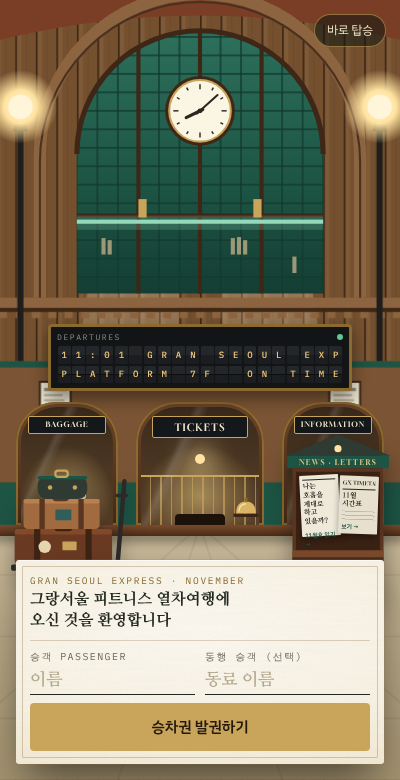
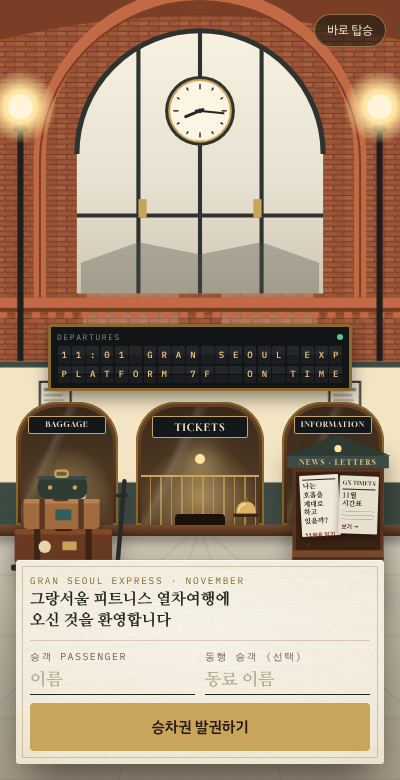
Restore brick palette, make booth wall ivory, keep only main window mullions
Claude-Session: https://claude.ai/code/session_01944gX2svfc1a8cfr9gyaLp

diff --git a/index.html b/index.html
@@ -11,9 +11,9 @@
 /* Layout: 휴대폰 한 화면 = 객차 한 칸. 위 황동 명판(칸 이동) → 창(칸마다 다른 풍경) → 기구 → 테이블 위 미션 카드 */
 :root{
   color-scheme:dark;
-  --night:#0D1A15;
+  --night:#0F1511;
   --brass:#C9A55C; --brass-dk:#8A6A2E;
-  --paper:#F4ECDB; --ink:#22281F; --muted:#6B6A5C; --leather:#1D5444;
+  --paper:#F4ECDB; --ink:#22281F; --muted:#6B6A5C; --leather:#6E2626;
   --frame:#2C3034; --frame-hi:#464B50; --shroud:#A2A6A9; --shroud-hi:#C3C6C8; --pad:#1E2124; --stack:#666B70;
   --glove:#FBFAF5; --navy:#1F2F52;
   --sky1:#E8D3A6; --sky2:#F3E5C3; --sun:#F6E2A8; --lamp:#F7D88A;
@@ -209,7 +209,7 @@ body{margin:0;background:var(--night);color:var(--paper);font-family:var(--f-bod
 .posts{position:absolute;left:0;right:0;bottom:26%;height:12%;pointer-events:none}
 .post{position:absolute;bottom:0;width:7px;height:100%;border-radius:3px;background:linear-gradient(90deg,var(--brass-dk),#E3C47F,var(--brass-dk))}
 .post::before{content:"";position:absolute;top:-6px;left:-3px;width:13px;height:13px;border-radius:50%;background:var(--brass)}
-.rope{position:absolute;top:8%;height:28px;border-bottom:5px solid #1D5444;border-radius:0 0 50% 50%}
+.rope{position:absolute;top:8%;height:28px;border-bottom:5px solid #6E2626;border-radius:0 0 50% 50%}
 
 .office-ui{position:absolute;left:0;right:0;bottom:0;padding:0 max(16px,env(safe-area-inset-right,0px)) max(16px,env(safe-area-inset-bottom,0px)) max(16px,env(safe-area-inset-left,0px));z-index:5}
 .welcome{position:absolute;top:13%;left:0;right:0;text-align:center;color:#3A2A1C;padding-inline:16px;z-index:4}
@@ -253,13 +253,13 @@ body{margin:0;background:var(--night);color:var(--paper);font-family:var(--f-bod
 @keyframes flash{50%{opacity:.25}}
 .train-side{position:absolute;left:4%;bottom:31%;height:20%;display:flex;align-items:flex-end;gap:6px;transition:transform 2.6s cubic-bezier(.55,0,.75,.4)}
 .departing .train-side{transform:translateX(-150%)}
-.tcar{position:relative;height:100%;width:220px;flex:none;border-radius:10px 10px 4px 4px;background:linear-gradient(#EFE3C8 0 34%,#C9A55C 34% 36%,#1D5444 36%);box-shadow:0 8px 16px rgba(0,0,0,.3)}
+.tcar{position:relative;height:100%;width:220px;flex:none;border-radius:10px 10px 4px 4px;background:linear-gradient(#EFE3C8 0 34%,#C9A55C 34% 36%,#23392C 36%);box-shadow:0 8px 16px rgba(0,0,0,.3)}
 .tcar .ws{position:absolute;left:8px;right:8px;top:10%;height:20%;display:flex;gap:6px}
 .tcar .ws i{flex:1;border-radius:4px;background:#F2C97A;box-shadow:inset 0 0 0 2px #8A6A2E}
 .tcar .nm{position:absolute;left:0;right:0;top:52%;text-align:center;font-family:var(--f-display);font-size:13px;letter-spacing:.14em;color:#E3C47F}
 .tcar .gl{position:absolute;left:0;right:0;bottom:22%;height:2px;background:var(--brass)}
-.loco2{width:150px;border-radius:50px 10px 4px 4px;background:linear-gradient(#1D5444,#143E33)}
-.loco2 .chim{position:absolute;left:26px;top:-22px;width:18px;height:24px;border-radius:3px 3px 0 0;background:#143E33}
+.loco2{width:150px;border-radius:50px 10px 4px 4px;background:linear-gradient(#23392C,#1A2B21)}
+.loco2 .chim{position:absolute;left:26px;top:-22px;width:18px;height:24px;border-radius:3px 3px 0 0;background:#1A2B21}
 .puff{position:absolute;left:22px;top:-30px;width:26px;height:26px;border-radius:50%;background:#F4EEE2;opacity:0}
 .departing .puff,.waiting .puff{animation:puff 1.6s ease-out infinite}
 .puff:nth-child(2){animation-delay:.5s!important}.puff:nth-child(3){animation-delay:1s!important}
@@ -274,7 +274,7 @@ body{margin:0;background:var(--night);color:var(--paper);font-family:var(--f-bod
 .plat-msg b{display:block;font-family:var(--f-kr);font-size:20px}
 .plat-msg span{font-size:13px;color:#5E5444}
 .skip{position:absolute;right:max(14px,env(safe-area-inset-right,0px));top:max(14px,env(safe-area-inset-top,0px));z-index:9;background:rgba(15,21,17,.55);border:1px solid rgba(201,165,92,.6);color:#F1E5CB;border-radius:999px;padding:6px 12px;font-size:12px}
-.fade{position:absolute;inset:0;background:#0D1A15;opacity:0;pointer-events:none;transition:opacity .5s;z-index:10}
+.fade{position:absolute;inset:0;background:#0F1511;opacity:0;pointer-events:none;transition:opacity .5s;z-index:10}
 .fade.on{opacity:1}
 
 
@@ -317,7 +317,7 @@ body{margin:0;background:var(--night);color:var(--paper);font-family:var(--f-bod
 .st-card .acts{display:flex;gap:8px;margin-top:4px}
 .st-card .acts .btn{flex:1}
 .st-card .btn.line{background:transparent;color:var(--ink);border:1px solid #CFC5B0}
-.received{position:absolute;right:12px;top:-58px;width:96px;height:96px;border-radius:50%;border:3px double #1D5444;color:#1D5444;display:grid;place-items:center;text-align:center;
+.received{position:absolute;right:12px;top:-58px;width:96px;height:96px;border-radius:50%;border:3px double #6E2626;color:#6E2626;display:grid;place-items:center;text-align:center;
   font-family:var(--f-mono);font-size:9.5px;letter-spacing:.1em;line-height:1.35;transform:rotate(-12deg);animation:stampIn .45s cubic-bezier(.3,1.7,.5,1);background:rgba(244,236,219,.85)}
 .received b{display:block;font-family:var(--f-kr);font-size:13px;letter-spacing:0}
 @keyframes stampIn{from{transform:rotate(-12deg) scale(2);opacity:0}}
@@ -355,7 +355,7 @@ body{margin:0;background:var(--night);color:var(--paper);font-family:var(--f-bod
 .paper .mast{font-family:var(--f-display);font-size:7px;letter-spacing:.06em;border-bottom:1.5px solid #2A2622;padding-bottom:1px;white-space:nowrap;overflow:hidden}
 .paper .hd{font-family:var(--f-kr);font-weight:800;font-size:8.5px;line-height:1.25}
 .paper .cols{flex:1;background:repeating-linear-gradient(0deg,#B7AF9E 0 1px,transparent 1px 4px);opacity:.8}
-.paper .ft{font-size:7.5px;font-weight:600;color:#1D5444}
+.paper .ft{font-size:7.5px;font-weight:600;color:#6E2626}
 .info-pillar{position:absolute;left:1%;top:42%;width:27%;z-index:4;filter:drop-shadow(0 12px 14px rgba(0,0,0,.35))}
 .info-pillar .green{animation:glowG 2.4s ease-in-out infinite}
 @keyframes glowG{50%{opacity:.55}}
@@ -385,7 +385,7 @@ body{margin:0;background:var(--night);color:var(--paper);font-family:var(--f-bod
 
 
 /* 승강장 v2 */
-.platform{background:#74502F}
+.platform{background:#A65A3A}
 .pf-bg{position:absolute;inset:0;width:100%;height:100%}
 .pf-bg .beams2{animation:beam 8s ease-in-out infinite}
 .platform .roof,.platform .lamppost{display:none}
@@ -407,7 +407,7 @@ body{margin:0;background:var(--night);color:var(--paper);font-family:var(--f-bod
 
 
 /* ── 매표소 v3: 벽돌 대합실 */
-.office{background:#6E4A2C}
+.office{background:#9E5638}
 .office .hall,.office .info-pillar,.office .news{display:none}
 .hall2{position:absolute;inset:0;width:100%;height:100%}
 .hall2 .beams{animation:beam 7s ease-in-out infinite}
@@ -486,7 +486,7 @@ body{margin:0;background:var(--night);color:var(--paper);font-family:var(--f-bod
 
 
 /* 정차역 v2 */
-.station{background:#6E4A2C}
+.station{background:#9E5638}
 .st-bg{position:absolute;inset:0;width:100%;height:100%;z-index:0}
 .st-bg .beams{animation:beam 7s ease-in-out infinite}
 .station .ground{display:none}
@@ -767,10 +767,10 @@ h1,h2,h3,h4,.st-card h2,.gate b{text-wrap:balance}
     <section class="scene office" id="office">
       <svg class="hall2" viewBox="0 0 400 760" preserveAspectRatio="xMidYMax slice" aria-hidden="true">
         <defs>
-          <pattern id="brk" width="20" height="40" patternUnits="userSpaceOnUse"><rect width="20" height="40" fill="#74502F"/><rect width="1.6" height="40" fill="#3E2716"/><rect x="2" width="4" height="40" fill="rgba(255,220,170,.07)"/><path d="M11.0 0 V40" stroke="rgba(40,22,10,.10)" stroke-width="1"/></pattern>
-          <pattern id="mul3" width="20" height="18" patternUnits="userSpaceOnUse" x="80"><rect width="20" height="18" fill="none" stroke="#123A2F" stroke-width="1.4"/></pattern>
-          <linearGradient id="sky3" x1="0" y1="0" x2="0" y2="1"><stop offset="0" stop-color="#2C705B"/><stop offset=".6" stop-color="#1D5444"/><stop offset="1" stop-color="#143E33"/></linearGradient>
-          <linearGradient id="fl3" x1="0" y1="0" x2="0" y2="1"><stop offset="0" stop-color="#C9BA9A"/><stop offset="1" stop-color="#A3926F"/></linearGradient>
+          <pattern id="brk" width="20" height="10" patternUnits="userSpaceOnUse"><rect width="20" height="10" fill="#9E5638"/><path d="M0 .5H20 M0 5.5H20 M10 0V5 M0 5V10 M20 5V10" stroke="#743A23" stroke-width="1"/><rect x="1" y="1" width="8" height="3.6" fill="rgba(255,200,150,.09)"/><rect x="11" y="6" width="8" height="3.6" fill="rgba(0,0,0,.05)"/></pattern>
+          <pattern id="mul3" width="20" height="18" patternUnits="userSpaceOnUse" x="80"><rect width="20" height="18" fill="none" stroke="#3B3E3A" stroke-width="1.4"/></pattern>
+          <linearGradient id="sky3" x1="0" y1="0" x2="0" y2="1"><stop offset="0" stop-color="#F7F1E2"/><stop offset=".6" stop-color="#E6E0D0"/><stop offset="1" stop-color="#CFC6B0"/></linearGradient>
+          <linearGradient id="fl3" x1="0" y1="0" x2="0" y2="1"><stop offset="0" stop-color="#CFC7B6"/><stop offset="1" stop-color="#A69C88"/></linearGradient>
           <radialGradient id="glb"><stop offset="0" stop-color="#FFF7DE"/><stop offset=".45" stop-color="#FFE3A0"/><stop offset="1" stop-color="rgba(255,227,160,0)"/></radialGradient>
           <linearGradient id="bm3" x1="0" y1="0" x2="0" y2="1"><stop offset="0" stop-color="rgba(255,240,205,.45)"/><stop offset="1" stop-color="rgba(255,240,205,0)"/></linearGradient>
         </defs>
@@ -778,36 +778,35 @@ h1,h2,h3,h4,.st-card h2,.gate b{text-wrap:balance}
         <!-- 볼트 천장 -->
         <path d="M0 0 H400 V40 Q200 -10 0 40Z" fill="#7A3E26"/>
         <!-- 큰 아치 + 테라코타 몰딩 -->
-        <path d="M44 290 V150 A156 156 0 0 1 356 150 V290" fill="none" stroke="#8C6440" stroke-width="12"/>
-        <path d="M44 290 V150 A156 156 0 0 1 356 150 V290" fill="none" stroke="#4A3020" stroke-width="2" transform="translate(0 8)"/>
+        <path d="M44 290 V150 A156 156 0 0 1 356 150 V290" fill="none" stroke="#C26A45" stroke-width="12"/>
+        <path d="M44 290 V150 A156 156 0 0 1 356 150 V290" fill="none" stroke="#7E3F27" stroke-width="2" transform="translate(0 8)"/>
         <path d="M80 286 V150 A120 120 0 0 1 320 150 V286 Z" fill="url(#sky3)"/>
-        <path d="M80 286 V150 A120 120 0 0 1 320 150 V286 Z" fill="url(#mul3)"/>
-        <path d="M80 150 A120 120 0 0 1 320 150" fill="none" stroke="#3E2716" stroke-width="5"/>
-        <path d="M200 30 V286 M140 46 V286 M260 46 V286 M80 210 H320" stroke="#3E2716" stroke-width="4"/>
+        <path d="M80 150 A120 120 0 0 1 320 150" fill="none" stroke="#2F322F" stroke-width="5"/>
+        <path d="M200 30 V286 M140 46 V286 M260 46 V286 M80 210 H320" stroke="#2F322F" stroke-width="4"/>
         <!-- 창 너머 플랫폼 지붕 실루엣 -->
-        <rect x="80" y="214" width="240" height="4" fill="#A8F0CF" opacity=".85"/><rect x="80" y="210" width="240" height="14" fill="#A8F0CF" opacity=".18"/><g fill="#C9B48E" opacity=".75"><rect x="104" y="232" width="4" height="16"/><rect x="110" y="234" width="4" height="14"/><rect x="230" y="232" width="4" height="16"/><rect x="236" y="231" width="4" height="17"/><rect x="242" y="234" width="4" height="14"/><rect x="290" y="250" width="4" height="16"/></g>
+        <path d="M84 256 L140 236 L200 248 L260 236 L316 256 V286 H84Z" fill="rgba(80,80,74,.35)"/>
         <!-- 장식 기둥 머리 -->
         <g fill="#C9A55C"><rect x="140" y="194" width="8" height="18"/><rect x="252" y="194" width="8" height="18"/></g>
         <!-- 시계 -->
-        <g transform="translate(200 108)"><path d="M0 -60 V-34" stroke="#3E2716" stroke-width="2.5"/>
-          <circle r="34" fill="#3E2716"/><circle r="30" fill="#FBF5E4"/><circle r="30" fill="none" stroke="#C9A55C" stroke-width="2"/>
+        <g transform="translate(200 108)"><path d="M0 -60 V-34" stroke="#2F322F" stroke-width="2.5"/>
+          <circle r="34" fill="#2F322F"/><circle r="30" fill="#FBF5E4"/><circle r="30" fill="none" stroke="#C9A55C" stroke-width="2"/>
           <g stroke="#2A2620" stroke-width="1.4"><line y1="-26" y2="-21" transform="rotate(0)"/><line y1="-26" y2="-23" transform="rotate(30)"/><line y1="-26" y2="-23" transform="rotate(60)"/><line y1="-26" y2="-21" transform="rotate(90)"/><line y1="-26" y2="-23" transform="rotate(120)"/><line y1="-26" y2="-23" transform="rotate(150)"/><line y1="-26" y2="-21" transform="rotate(180)"/><line y1="-26" y2="-23" transform="rotate(210)"/><line y1="-26" y2="-23" transform="rotate(240)"/><line y1="-26" y2="-21" transform="rotate(270)"/><line y1="-26" y2="-23" transform="rotate(300)"/><line y1="-26" y2="-23" transform="rotate(330)"/></g>
           <line class="hh" y1="3" y2="-15" stroke="#2A2620" stroke-width="3" stroke-linecap="round"/><line class="mh" y1="4" y2="-23" stroke="#2A2620" stroke-width="2" stroke-linecap="round"/><circle r="2.4" fill="#2A2620"/></g>
         <!-- 빛줄기 -->
         <path class="beams" d="M90 286 L20 760 L170 760 L180 286 Z M220 286 L240 760 L380 760 L310 286 Z" fill="url(#bm3)"/>
         <!-- 코니스 -->
-        <rect x="0" y="290" width="400" height="10" fill="#8C6440"/><rect x="0" y="300" width="400" height="4" fill="#3E2716"/>
-        <g fill="#8C6440"><rect x="4" y="304" width="8" height="6"/><rect x="20" y="304" width="8" height="6"/><rect x="36" y="304" width="8" height="6"/><rect x="52" y="304" width="8" height="6"/><rect x="68" y="304" width="8" height="6"/><rect x="84" y="304" width="8" height="6"/><rect x="100" y="304" width="8" height="6"/><rect x="116" y="304" width="8" height="6"/><rect x="132" y="304" width="8" height="6"/><rect x="148" y="304" width="8" height="6"/><rect x="164" y="304" width="8" height="6"/><rect x="180" y="304" width="8" height="6"/><rect x="196" y="304" width="8" height="6"/><rect x="212" y="304" width="8" height="6"/><rect x="228" y="304" width="8" height="6"/><rect x="244" y="304" width="8" height="6"/><rect x="260" y="304" width="8" height="6"/><rect x="276" y="304" width="8" height="6"/><rect x="292" y="304" width="8" height="6"/><rect x="308" y="304" width="8" height="6"/><rect x="324" y="304" width="8" height="6"/><rect x="340" y="304" width="8" height="6"/><rect x="356" y="304" width="8" height="6"/><rect x="372" y="304" width="8" height="6"/><rect x="388" y="304" width="8" height="6"/></g>
+        <rect x="0" y="290" width="400" height="10" fill="#C26A45"/><rect x="0" y="300" width="400" height="4" fill="#743A23"/>
+        <g fill="#C26A45"><rect x="4" y="304" width="8" height="6"/><rect x="20" y="304" width="8" height="6"/><rect x="36" y="304" width="8" height="6"/><rect x="52" y="304" width="8" height="6"/><rect x="68" y="304" width="8" height="6"/><rect x="84" y="304" width="8" height="6"/><rect x="100" y="304" width="8" height="6"/><rect x="116" y="304" width="8" height="6"/><rect x="132" y="304" width="8" height="6"/><rect x="148" y="304" width="8" height="6"/><rect x="164" y="304" width="8" height="6"/><rect x="180" y="304" width="8" height="6"/><rect x="196" y="304" width="8" height="6"/><rect x="212" y="304" width="8" height="6"/><rect x="228" y="304" width="8" height="6"/><rect x="244" y="304" width="8" height="6"/><rect x="260" y="304" width="8" height="6"/><rect x="276" y="304" width="8" height="6"/><rect x="292" y="304" width="8" height="6"/><rect x="308" y="304" width="8" height="6"/><rect x="324" y="304" width="8" height="6"/><rect x="340" y="304" width="8" height="6"/><rect x="356" y="304" width="8" height="6"/><rect x="372" y="304" width="8" height="6"/><rect x="388" y="304" width="8" height="6"/></g>
         <!-- 가로등 -->
         <g><rect x="22" y="120" width="6" height="440" fill="#1F1E1C"/><path d="M18 128 h14 l-2 -8 h-10z" fill="#1F1E1C"/><circle cx="25" cy="104" r="36" fill="url(#glb)"/><circle cx="25" cy="104" r="12" fill="#FFF6DA"/><rect x="14" y="548" width="22" height="12" fill="#1F1E1C"/></g>
         <g><rect x="372" y="120" width="6" height="440" fill="#1F1E1C"/><path d="M368 128 h14 l-2 -8 h-10z" fill="#1F1E1C"/><circle cx="375" cy="104" r="36" fill="url(#glb)"/><circle cx="375" cy="104" r="12" fill="#FFF6DA"/><rect x="364" y="548" width="22" height="12" fill="#1F1E1C"/></g>
         <!-- 매표 부스 벽 (2번째 단) -->
-        <rect x="0" y="352" width="400" height="160" fill="#7A5434"/>
-        <rect x="0" y="352" width="400" height="6" fill="#1D5444"/>
-        <rect x="0" y="470" width="400" height="42" fill="#1D5444"/>
+        <rect x="0" y="352" width="400" height="160" fill="#F3E4C4"/>
+        <rect x="0" y="352" width="400" height="6" fill="#3E4A44"/>
+        <rect x="0" y="470" width="400" height="42" fill="#3E4A44"/>
         <!-- 게시판들 -->
-        <g><rect x="44" y="372" width="30" height="40" fill="#E9E2CF" stroke="#3E2716" stroke-width="2"/><rect x="48" y="378" width="22" height="3" fill="#8C8270"/><rect x="48" y="384" width="18" height="2" fill="#B5AC98"/><rect x="48" y="389" width="20" height="2" fill="#B5AC98"/><rect x="48" y="394" width="14" height="2" fill="#B5AC98"/></g>
-        <g><rect x="326" y="372" width="30" height="40" fill="#E9E2CF" stroke="#3E2716" stroke-width="2"/><rect x="330" y="378" width="22" height="3" fill="#8C8270"/><rect x="330" y="384" width="18" height="2" fill="#B5AC98"/><rect x="330" y="389" width="20" height="2" fill="#B5AC98"/></g>
+        <g><rect x="44" y="372" width="30" height="40" fill="#E9E2CF" stroke="#2F322F" stroke-width="2"/><rect x="48" y="378" width="22" height="3" fill="#8C8270"/><rect x="48" y="384" width="18" height="2" fill="#B5AC98"/><rect x="48" y="389" width="20" height="2" fill="#B5AC98"/><rect x="48" y="394" width="14" height="2" fill="#B5AC98"/></g>
+        <g><rect x="326" y="372" width="30" height="40" fill="#E9E2CF" stroke="#2F322F" stroke-width="2"/><rect x="330" y="378" width="22" height="3" fill="#8C8270"/><rect x="330" y="384" width="18" height="2" fill="#B5AC98"/><rect x="330" y="389" width="20" height="2" fill="#B5AC98"/></g>
         <g fill="#FFE3A0"><circle cx="100" cy="364" r="3"/><circle cx="300" cy="364" r="3"/><circle cx="160" cy="364" r="2.5"/><circle cx="240" cy="364" r="2.5"/></g>
         <!-- 바닥 -->
         <rect x="0" y="512" width="400" height="248" fill="url(#fl3)"/>
@@ -856,13 +855,13 @@ h1,h2,h3,h4,.st-card h2,.gate b{text-wrap:balance}
         <circle cx="26" cy="134" r="10" fill="#1C1B1A"/><circle cx="26" cy="134" r="4" fill="#8A6A2E"/><circle cx="108" cy="134" r="10" fill="#1C1B1A"/><circle cx="108" cy="134" r="4" fill="#8A6A2E"/>
         <g><rect x="12" y="78" width="110" height="40" rx="5" fill="#6B3A22"/><rect x="12" y="78" width="110" height="6" rx="3" fill="#82492B"/><rect x="34" y="78" width="7" height="40" fill="#3E2414"/><rect x="92" y="78" width="7" height="40" fill="#3E2414"/><rect x="58" y="72" width="18" height="7" rx="3" fill="none" stroke="#3E2414" stroke-width="3"/><circle cx="46" cy="98" r="7" fill="#E7D7B0"/><rect x="66" y="92" width="16" height="10" rx="1" fill="#C9A55C"/></g>
         <g><rect x="22" y="44" width="86" height="34" rx="5" fill="#A26B3F"/><rect x="22" y="44" width="86" height="5" rx="2" fill="#B9804F"/><rect x="40" y="44" width="6" height="34" fill="#5A3520"/><rect x="84" y="44" width="6" height="34" fill="#5A3520"/><rect x="56" y="38" width="16" height="7" rx="3" fill="none" stroke="#5A3520" stroke-width="3"/><rect x="58" y="56" width="18" height="12" rx="1" fill="#2F5E5B"/></g>
-        <g><rect x="38" y="18" width="56" height="26" rx="10" fill="#2F3A33"/><rect x="38" y="18" width="56" height="4" rx="2" fill="#1D5444"/><rect x="58" y="12" width="14" height="7" rx="3" fill="none" stroke="#C9A55C" stroke-width="2.5"/><circle cx="52" cy="31" r="2.5" fill="#C9A55C"/><circle cx="80" cy="31" r="2.5" fill="#C9A55C"/></g>
+        <g><rect x="38" y="18" width="56" height="26" rx="10" fill="#2F3A33"/><rect x="38" y="18" width="56" height="4" rx="2" fill="#3E4A44"/><rect x="58" y="12" width="14" height="7" rx="3" fill="none" stroke="#C9A55C" stroke-width="2.5"/><circle cx="52" cy="31" r="2.5" fill="#C9A55C"/><circle cx="80" cy="31" r="2.5" fill="#C9A55C"/></g>
       </svg>
 
       <!-- 오브제: 신문 가판대 -->
       <div class="kiosk" aria-label="신문 가판대">
         <svg class="kiosk-bg" viewBox="0 0 130 190" aria-hidden="true">
-          <path d="M6 30 L65 6 L124 30 Z" fill="#2F3A33"/><rect x="8" y="30" width="114" height="14" fill="#1D5444"/><text x="65" y="40.5" text-anchor="middle" font-family="Gloock,Georgia,serif" font-size="8.5" letter-spacing="1.5" fill="#E3C47F">NEWS · LETTERS</text>
+          <path d="M6 30 L65 6 L124 30 Z" fill="#2F3A33"/><rect x="8" y="30" width="114" height="14" fill="#3E4A44"/><text x="65" y="40.5" text-anchor="middle" font-family="Gloock,Georgia,serif" font-size="8.5" letter-spacing="1.5" fill="#E3C47F">NEWS · LETTERS</text>
           <rect x="14" y="44" width="102" height="146" fill="#5A3520"/><rect x="18" y="48" width="94" height="88" fill="#3A2214"/>
           <rect x="14" y="136" width="102" height="8" fill="#7A4A2C"/><rect x="14" y="144" width="102" height="46" fill="#4A2C18"/>
           <g fill="#E9E2CF"><rect x="22" y="150" width="20" height="26"/><rect x="46" y="152" width="20" height="24"/><rect x="70" y="150" width="20" height="26"/><rect x="94" y="152" width="18" height="24"/></g>
@@ -907,36 +906,36 @@ h1,h2,h3,h4,.st-card h2,.gate b{text-wrap:balance}
     <section class="scene platform" id="platform" hidden>
       <svg class="pf-bg" viewBox="0 0 400 760" preserveAspectRatio="xMidYMax slice" aria-hidden="true">
         <defs>
-          <pattern id="brick" width="24" height="42" patternUnits="userSpaceOnUse"><rect width="24" height="42" fill="#74502F"/><rect width="1.6" height="42" fill="#3E2716"/><rect x="2" width="4" height="42" fill="rgba(255,220,170,.07)"/><path d="M13.200000000000001 0 V42" stroke="rgba(40,22,10,.10)" stroke-width="1"/></pattern>
+          <pattern id="brick" width="24" height="12" patternUnits="userSpaceOnUse"><rect width="24" height="12" fill="#A65A3A"/><path d="M0 0.5 H24 M0 6.5 H24 M12 0 V6 M0 6 V12 M24 6 V12" stroke="#7E3F27" stroke-width="1"/><rect x="1" y="1" width="10" height="4.6" fill="rgba(255,190,140,.10)"/></pattern>
           <pattern id="mul2" width="16" height="20" patternUnits="userSpaceOnUse"><rect width="16" height="20" fill="none" stroke="#3A3F3C" stroke-width="1.6"/></pattern>
           <linearGradient id="sky2" x1="0" y1="0" x2="0" y2="1"><stop offset="0" stop-color="#FFF4D8"/><stop offset="1" stop-color="#F6D9A0"/></linearGradient>
           <linearGradient id="beam2" x1="0" y1="0" x2="1" y2="1"><stop offset="0" stop-color="rgba(255,226,160,.6)"/><stop offset="1" stop-color="rgba(255,226,160,0)"/></linearGradient>
           <linearGradient id="floor2" x1="0" y1="0" x2="0" y2="1"><stop offset="0" stop-color="#D2B286"/><stop offset=".35" stop-color="#E6CFA6"/><stop offset="1" stop-color="#DBC097"/></linearGradient><pattern id="plank2" width="120" height="22" patternUnits="userSpaceOnUse"><rect width="120" height="22" fill="none"/><path d="M0 21.5 H120" stroke="rgba(110,74,40,.28)" stroke-width="1"/><path d="M38 0 V22" stroke="rgba(110,74,40,.22)" stroke-width="1"/><path d="M0 7 Q30 5 60 8 T120 7 M0 14 Q40 16 80 13 T120 15" stroke="rgba(140,100,60,.10)" stroke-width="1" fill="none"/><rect x="0" y="0" width="120" height="3" fill="rgba(255,240,215,.18)"/></pattern><pattern id="plank2b" width="120" height="44" patternUnits="userSpaceOnUse"><rect y="0" width="120" height="22" fill="url(#plank2)"/><rect x="0" y="22" width="120" height="22" fill="url(#plank2)" transform="translate(60 0)"/></pattern>
-          <linearGradient id="panel" x1="0" y1="0" x2="0" y2="1"><stop offset="0" stop-color="#7A5434"/><stop offset="1" stop-color="#5A3B22"/></linearGradient>
+          <linearGradient id="panel" x1="0" y1="0" x2="0" y2="1"><stop offset="0" stop-color="#4E5C52"/><stop offset="1" stop-color="#36423A"/></linearGradient>
           <radialGradient id="globeL"><stop offset="0" stop-color="#FFF6DA"/><stop offset=".5" stop-color="#FFE3A0"/><stop offset="1" stop-color="rgba(255,227,160,0)"/></radialGradient>
         </defs>
         <!-- 벽돌 벽 -->
         <rect width="400" height="760" fill="url(#brick)"/>
         <!-- 큰 아치 창 -->
-        <path d="M70 300 V170 A130 130 0 0 1 330 170 V300 Z" fill="#4A3020"/>
+        <path d="M70 300 V170 A130 130 0 0 1 330 170 V300 Z" fill="#7E3F27"/>
         <path d="M80 300 V172 A120 120 0 0 1 320 172 V300 Z" fill="url(#sky2)"/>
         <path d="M80 300 V172 A120 120 0 0 1 320 172 V300 Z" fill="url(#mul2)"/>
         <path d="M80 172 A120 120 0 0 1 320 172" fill="none" stroke="#3A3F3C" stroke-width="4"/>
         <path d="M200 52 V300 M140 70 V300 M260 70 V300 M80 230 H320" stroke="#2E3330" stroke-width="3"/>
-        <path d="M60 172 A140 140 0 0 1 340 172" fill="none" stroke="#8C6440" stroke-width="8"/>
+        <path d="M60 172 A140 140 0 0 1 340 172" fill="none" stroke="#C9714C" stroke-width="8"/>
         <!-- 양옆 작은 아치 창 -->
         <path d="M-30 300 V200 A46 46 0 0 1 40 200 V300 Z" fill="url(#sky2)"/><path d="M-30 300 V200 A46 46 0 0 1 40 200 V300 Z" fill="url(#mul2)"/>
         <path d="M360 300 V200 A46 46 0 0 1 430 200 V300 Z" fill="url(#sky2)"/><path d="M360 300 V200 A46 46 0 0 1 430 200 V300 Z" fill="url(#mul2)"/>
         <!-- 코니스 -->
-        <rect x="0" y="300" width="400" height="12" fill="#8C6440"/><rect x="0" y="312" width="400" height="4" fill="#4A3020"/>
+        <rect x="0" y="300" width="400" height="12" fill="#C9714C"/><rect x="0" y="312" width="400" height="4" fill="#7E3F27"/>
         <!-- 아래 패널 + 문 + 게시판 -->
         <rect x="0" y="316" width="400" height="120" fill="url(#panel)"/>
-        <g fill="#143E33"><rect x="22" y="330" width="44" height="106"/><rect x="334" y="330" width="44" height="106"/></g>
+        <g fill="#2B342E"><rect x="22" y="330" width="44" height="106"/><rect x="334" y="330" width="44" height="106"/></g>
         <g fill="#F1E3C2" opacity=".85"><rect x="28" y="338" width="14" height="40"/><rect x="46" y="338" width="14" height="40"/><rect x="340" y="338" width="14" height="40"/><rect x="358" y="338" width="14" height="40"/></g>
         <rect x="150" y="334" width="100" height="44" fill="#E9DFC6" stroke="#B8913E" stroke-width="3"/>
-        <text x="200" y="352" text-anchor="middle" font-family="Gloock,Georgia,serif" font-size="8.5" letter-spacing="1.5" fill="#143E33">TO PLATFORM 7F</text>
+        <text x="200" y="352" text-anchor="middle" font-family="Gloock,Georgia,serif" font-size="8.5" letter-spacing="1.5" fill="#2B342E">TO PLATFORM 7F</text>
         <text x="200" y="368" text-anchor="middle" font-family="IBM Plex Sans KR,sans-serif" font-size="9" fill="#5A4A2E">그랑서울 피트니스행</text>
-        <g fill="#E9DFC6" stroke="#143E33" stroke-width="1.5"><rect x="92" y="340" width="22" height="30"/><rect x="286" y="340" width="22" height="30"/></g>
+        <g fill="#E9DFC6" stroke="#2B342E" stroke-width="1.5"><rect x="92" y="340" width="22" height="30"/><rect x="286" y="340" width="22" height="30"/></g>
         <g fill="#FFE3A0"><circle cx="124" cy="330" r="3"/><circle cx="276" cy="330" r="3"/></g>
         <!-- 철골 지붕 -->
         <rect x="0" y="0" width="400" height="56" fill="#2B2A28"/>
@@ -1024,7 +1023,7 @@ bike:`<svg viewBox="0 0 130 150"><rect x="6" y="138" width="118" height="8" rx="
 mat:`<svg viewBox="0 0 260 90"><path d="M50 20 L210 20 L250 84 L10 84 Z" fill="#7F937A"/><path d="M58 26 L202 26 L236 78 L24 78 Z" fill="none" stroke="#A9B9A2" stroke-width="1.5"/><rect x="96" y="36" width="70" height="22" rx="11" fill="#E3D8C2"/><path d="M106 36 V58 M156 36 V58" stroke="#C9BB9C" stroke-width="2"/></svg>`,
 mats:`<svg viewBox="0 0 120 140"><circle cx="26" cy="118" r="18" fill="#7F937A"/><circle cx="26" cy="118" r="7" fill="#5F7259"/><circle cx="62" cy="118" r="18" fill="#8E6640"/><circle cx="62" cy="118" r="7" fill="#6D4C2E"/><circle cx="44" cy="86" r="18" fill="#7F937A"/><circle cx="44" cy="86" r="7" fill="#5F7259"/><rect x="78" y="40" width="34" height="96" rx="6" fill="#4F6A4B"/><path d="M90 52 C82 36 70 34 66 20 M96 52 C104 34 114 30 112 14 M93 52 C92 34 96 22 92 6" stroke="#6F8A68" stroke-width="5" fill="none" stroke-linecap="round"/></svg>`,
 mirror:`<svg viewBox="0 0 160 200"><rect x="6" y="6" width="148" height="190" rx="6" fill="var(--brass-dk)"/><rect x="14" y="14" width="132" height="174" rx="3" fill="#41604E"/><path d="M30 20 L70 20 L30 120 Z" fill="rgba(255,255,255,.12)"/><path d="M84 20 L100 20 L48 182 L32 182 Z" fill="rgba(255,255,255,.08)"/></svg>`,
-steps:`<svg viewBox="0 0 170 120"><rect x="6" y="80" width="78" height="22" rx="4" fill="var(--pad)"/><rect x="10" y="102" width="12" height="10" fill="var(--frame)"/><rect x="68" y="102" width="12" height="10" fill="var(--frame)"/><rect x="18" y="56" width="66" height="22" rx="4" fill="var(--pad)" opacity=".9"/><rect x="96" y="96" width="70" height="16" rx="8" fill="#1D5444"/><circle cx="104" cy="104" r="8" fill="#5A1E1E"/><g transform="translate(120 46)"><circle cx="14" cy="26" r="20" fill="var(--pad)"/><path d="M2 12 Q14 -6 26 12" stroke="var(--shroud)" stroke-width="5" fill="none"/></g></svg>`
+steps:`<svg viewBox="0 0 170 120"><rect x="6" y="80" width="78" height="22" rx="4" fill="var(--pad)"/><rect x="10" y="102" width="12" height="10" fill="var(--frame)"/><rect x="68" y="102" width="12" height="10" fill="var(--frame)"/><rect x="18" y="56" width="66" height="22" rx="4" fill="var(--pad)" opacity=".9"/><rect x="96" y="96" width="70" height="16" rx="8" fill="#6E2626"/><circle cx="104" cy="104" r="8" fill="#5A1E1E"/><g transform="translate(120 46)"><circle cx="14" cy="26" r="20" fill="var(--pad)"/><path d="M2 12 Q14 -6 26 12" stroke="var(--shroud)" stroke-width="5" fill="none"/></g></svg>`
 };
 
 const CARS=[
@@ -1507,37 +1506,37 @@ function stationBg(S){
   const teeth=Array.from({length:25},(_,i)=>`<rect x="${4+i*16}" y="318" width="8" height="5"/>`).join("");
   const truss=Array.from({length:11},(_,i)=>`${i?"L":"M"}${i*40} ${i%2?0:44}`).join(" ");
   const bench=(x)=>`<g transform="translate(${x} 470)"><rect x="0" y="0" width="70" height="7" rx="2" fill="#5A3520"/><rect x="0" y="10" width="70" height="6" rx="2" fill="#5A3520"/><rect x="0" y="22" width="70" height="7" rx="2" fill="#6B4428"/><path d="M6 -2 V44 M64 -2 V44" stroke="#22211F" stroke-width="4"/><path d="M2 30 H68" stroke="#22211F" stroke-width="3"/></g>`;
-  const planter=(x)=>`<g transform="translate(${x} 462)"><path d="M0 22 H30 L26 52 H4Z" fill="#1D5444"/><rect x="-2" y="18" width="34" height="6" rx="2" fill="#C9A55C"/>
+  const planter=(x)=>`<g transform="translate(${x} 462)"><path d="M0 22 H30 L26 52 H4Z" fill="#3E4A44"/><rect x="-2" y="18" width="34" height="6" rx="2" fill="#C9A55C"/>
     <g fill="#4F6A4B"><ellipse cx="15" cy="8" rx="16" ry="12"/><ellipse cx="4" cy="14" rx="9" ry="7"/><ellipse cx="26" cy="14" rx="9" ry="7"/></g><g fill="${night?"#B9C9B0":"#E9B9A0"}"><circle cx="9" cy="4" r="2.4"/><circle cx="20" cy="2" r="2.4"/><circle cx="25" cy="10" r="2.4"/></g></g>`;
   return `<svg class="st-bg" viewBox="0 0 400 760" preserveAspectRatio="xMidYMax slice" aria-hidden="true">
   <defs>
-    <pattern id="sbk" width="20" height="40" patternUnits="userSpaceOnUse"><rect width="20" height="40" fill="#74502F"/><rect width="1.6" height="40" fill="#3E2716"/><rect x="2" width="4" height="40" fill="rgba(255,220,170,.07)"/><path d="M11.0 0 V40" stroke="rgba(40,22,10,.10)" stroke-width="1"/></pattern>
-    <pattern id="smul" width="20" height="18" patternUnits="userSpaceOnUse" x="90"><rect width="20" height="18" fill="none" stroke="#123A2F" stroke-width="1.4"/></pattern>
+    <pattern id="sbk" width="20" height="10" patternUnits="userSpaceOnUse"><rect width="20" height="10" fill="#9E5638"/><path d="M0 .5H20 M0 5.5H20 M10 0V5 M0 5V10 M20 5V10" stroke="#743A23" stroke-width="1"/><rect x="1" y="1" width="8" height="3.6" fill="rgba(255,200,150,.09)"/></pattern>
+    <pattern id="smul" width="20" height="18" patternUnits="userSpaceOnUse" x="90"><rect width="20" height="18" fill="none" stroke="#3B3E3A" stroke-width="1.4"/></pattern>
     <linearGradient id="ssky" x1="0" y1="0" x2="0" y2="1"><stop offset="0" stop-color="${sky[0]}"/><stop offset="1" stop-color="${sky[1]}"/></linearGradient>
-    <linearGradient id="sfl" x1="0" y1="0" x2="0" y2="1"><stop offset="0" stop-color="#C9BA9A"/><stop offset="1" stop-color="#A3926F"/></linearGradient>
+    <linearGradient id="sfl" x1="0" y1="0" x2="0" y2="1"><stop offset="0" stop-color="#CFC7B6"/><stop offset="1" stop-color="#A69C88"/></linearGradient>
     <linearGradient id="sbm" x1="0" y1="0" x2="0" y2="1"><stop offset="0" stop-color="${night?"rgba(255,226,160,.25)":"rgba(255,240,205,.5)"}"/><stop offset="1" stop-color="rgba(255,240,205,0)"/></linearGradient>
     <radialGradient id="sgl"><stop offset="0" stop-color="#FFF7DE"/><stop offset=".45" stop-color="#FFE3A0"/><stop offset="1" stop-color="rgba(255,227,160,0)"/></radialGradient>
     <linearGradient id="vel" x1="0" y1="0" x2="0" y2="1"><stop offset="0" stop-color="#7E2B2B"/><stop offset="1" stop-color="#4A1616"/></linearGradient>
   </defs>
   <rect width="400" height="760" fill="url(#sbk)"/>
   <!-- 큰 아치 창 (어메니티 뒤 역광) -->
-  <path d="M54 318 V178 A146 146 0 0 1 346 178 V318" fill="none" stroke="#8C6440" stroke-width="12"/>
+  <path d="M54 318 V178 A146 146 0 0 1 346 178 V318" fill="none" stroke="#C26A45" stroke-width="12"/>
   <path d="M86 314 V178 A114 114 0 0 1 314 178 V314Z" fill="url(#ssky)"/>
   ${night?`<g fill="#fff" opacity=".7">${Array.from({length:30},(_,i)=>`<circle cx="${96+(i*53)%210}" cy="${90+(i*37)%180}" r="${i%4?0.8:1.4}"/>`).join("")}</g><path d="M90 300 V280 H110 V262 H128 V284 H150 V256 H170 V290 H196 V270 H220 V286 H246 V250 H262 V280 H290 V266 H310 V300Z" fill="#14202E"/><g fill="#F2C97A">${Array.from({length:14},(_,i)=>`<rect x="${100+i*15}" y="${276+(i%3)*6}" width="3" height="3"/>`).join("")}</g>`:""}
   <path d="M86 314 V178 A114 114 0 0 1 314 178 V314Z" fill="url(#smul)"/>
-  <path d="M86 178 A114 114 0 0 1 314 178" fill="none" stroke="#3E2716" stroke-width="5"/>
-  <path d="M200 64 V314 M144 80 V314 M256 80 V314 M86 240 H314" stroke="#3E2716" stroke-width="4"/>
+  <path d="M86 178 A114 114 0 0 1 314 178" fill="none" stroke="#2F322F" stroke-width="5"/>
+  <path d="M200 64 V314 M144 80 V314 M256 80 V314 M86 240 H314" stroke="#2F322F" stroke-width="4"/>
   <!-- 시계 -->
-  <g transform="translate(200 132)"><circle r="16" fill="#3E2716"/><circle r="13.5" fill="#FBF5E4"/><g stroke="#2A2620" stroke-width="1">${ticks}</g>
+  <g transform="translate(200 132)"><circle r="16" fill="#2F322F"/><circle r="13.5" fill="#FBF5E4"/><g stroke="#2A2620" stroke-width="1">${ticks}</g>
     <line class="hh" y1="1.5" y2="-6.5" stroke="#2A2620" stroke-width="2" stroke-linecap="round"/><line class="mh" y1="2" y2="-10.5" stroke="#2A2620" stroke-width="1.4" stroke-linecap="round"/></g>
   <!-- 코니스 -->
-  <rect x="0" y="312" width="400" height="7" fill="#8C6440"/><g fill="#8C6440">${teeth}</g>
+  <rect x="0" y="312" width="400" height="7" fill="#C26A45"/><g fill="#C26A45">${teeth}</g>
   <!-- 아래 패널 -->
-  <rect x="0" y="330" width="400" height="160" fill="#1D5444"/>
-  <g fill="#143E33"><rect x="300" y="350" width="46" height="140"/></g>
+  <rect x="0" y="330" width="400" height="160" fill="#3E4A44"/>
+  <g fill="#2B342E"><rect x="300" y="350" width="46" height="140"/></g>
   <g fill="${night?"#F2C97A":"#E9E2CF"}" opacity=".9"><rect x="306" y="358" width="15" height="48"/><rect x="325" y="358" width="15" height="48"/></g>
   <rect x="122" y="348" width="156" height="30" fill="#E9DFC6" stroke="#B8913E" stroke-width="3"/>
-  <text x="200" y="361" text-anchor="middle" font-family="Gloock,Georgia,serif" font-size="9" letter-spacing="1.6" fill="#143E33">${S.en}</text>
+  <text x="200" y="361" text-anchor="middle" font-family="Gloock,Georgia,serif" font-size="9" letter-spacing="1.6" fill="#2B342E">${S.en}</text>
   <text x="200" y="373" text-anchor="middle" font-family="IBM Plex Sans KR,sans-serif" font-size="8" fill="#5A4A2E">${S.km} · 어메니티 수령 정차역</text>
   <!-- 철골 유리 지붕 -->
   <rect x="0" y="0" width="400" height="48" fill="#2B2A28"/>
@@ -1550,7 +1549,7 @@ function stationBg(S){
   <path d="M0 540 H400 M0 610 H400 M0 700 H400" stroke="rgba(0,0,0,.06)" stroke-width="1.5"/>
   <path d="M0 490 H400" stroke="#E8C84E" stroke-width="5" stroke-dasharray="18 18"/>
   <!-- 정차 중인 객차 (왼쪽) -->
-  <g><rect x="-70" y="250" width="118" height="200" rx="10" fill="#1D5444"/><rect x="-70" y="250" width="118" height="70" rx="10" fill="#EFE3C8"/><rect x="-70" y="316" width="118" height="4" fill="#C9A55C"/>
+  <g><rect x="-70" y="250" width="118" height="200" rx="10" fill="#23392C"/><rect x="-70" y="250" width="118" height="70" rx="10" fill="#EFE3C8"/><rect x="-70" y="316" width="118" height="4" fill="#C9A55C"/>
     <rect x="-60" y="266" width="44" height="38" rx="5" fill="${night?"#F2C97A":"#FFE6A6"}" stroke="#8A6A2E" stroke-width="2"/><rect x="-6" y="266" width="44" height="38" rx="5" fill="${night?"#F2C97A":"#FFE6A6"}" stroke="#8A6A2E" stroke-width="2"/>
     <rect x="-60" y="266" width="44" height="10" fill="#F4EEDF"/><rect x="-6" y="266" width="44" height="10" fill="#F4EEDF"/>
     <text x="-10" y="360" text-anchor="middle" font-family="Gloock,Georgia,serif" font-size="9" letter-spacing="1.5" fill="#E3C47F">FITNESS CAR</text>
@@ -1591,7 +1590,7 @@ function showStation(n){
   $("#stRecv").onclick=()=>{recv[n]=today;mark()};
   $("#stClose").onclick=()=>host.innerHTML="";
   if(S.final&&!reduce){const st=host.firstElementChild;for(let i=0;i<40;i++){const c=document.createElement("span");c.className="conf";
-    c.style.left=Math.random()*100+"%";c.style.background=["#C9A55C","#F4ECDB","#1D5444","#E3C47F"][i%4];c.style.animationDelay=(1+Math.random()*1.4)+"s";
+    c.style.left=Math.random()*100+"%";c.style.background=["#C9A55C","#F4ECDB","#6E2626","#E3C47F"][i%4];c.style.animationDelay=(1+Math.random()*1.4)+"s";
     c.style.setProperty("--dx",(Math.random()*80-40)+"px");c.style.setProperty("--r",(Math.random()*720)+"deg");st.appendChild(c)}}
 }
 $("#stBtn").onclick=()=>{const order=[3,6,9,12];const k=+($("#stBtn").dataset.k||0);showStation(order[k%4]);$("#stBtn").dataset.k=k+1};
